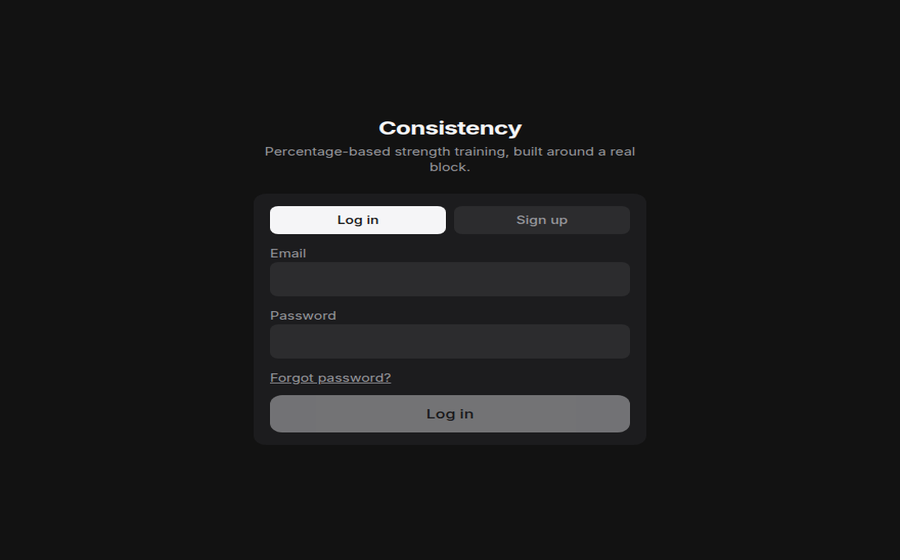
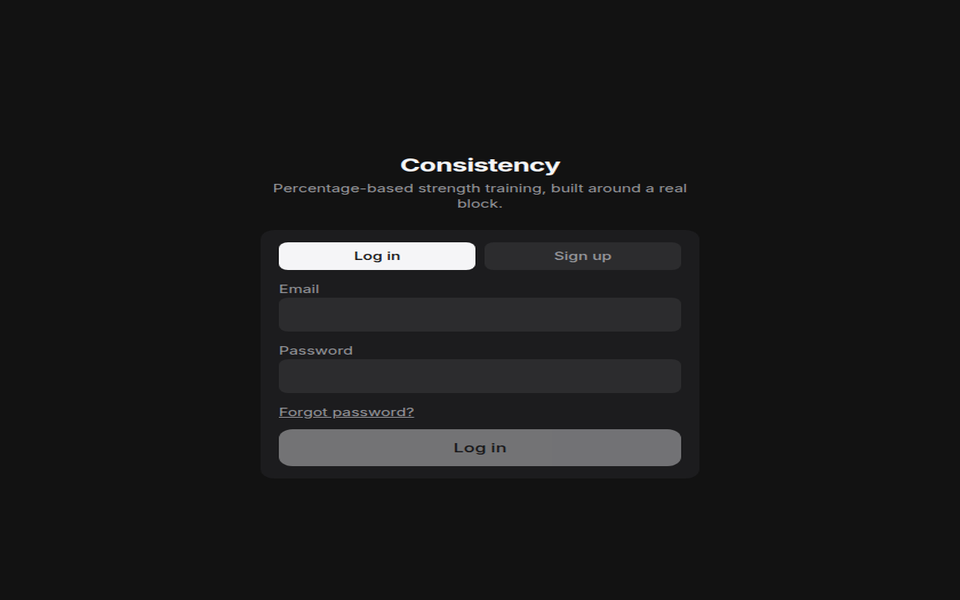
Fix CFT popup screenshot rendering
Drop pixelated image-rendering on project popups and refresh the
Consistency screenshot so it reads clearly on the dark map card.

Changed region(s): [[0.28, 0.2125, 0.7156, 0.4857], [0.28, 0.6679, 0.7156, 0.7893], [0.28, 0.5464, 0.3733, 0.6071]]

diff --git a/src/components/Map.css b/src/components/Map.css
@@ -590,11 +590,13 @@
   display: block;
   width: 100%;
   height: auto;
+  max-height: 160px;
+  object-fit: cover;
+  object-position: center top;
   border-radius: 4px;
-  border: 1px solid var(--map-panel-border);
+  border: 1px solid rgba(240, 234, 216, 0.18);
   margin-bottom: 10px;
-  image-rendering: pixelated;
-  image-rendering: crisp-edges;
+  background: #111820;
 }
 
 .map-root .leaflet-popup-tip {
